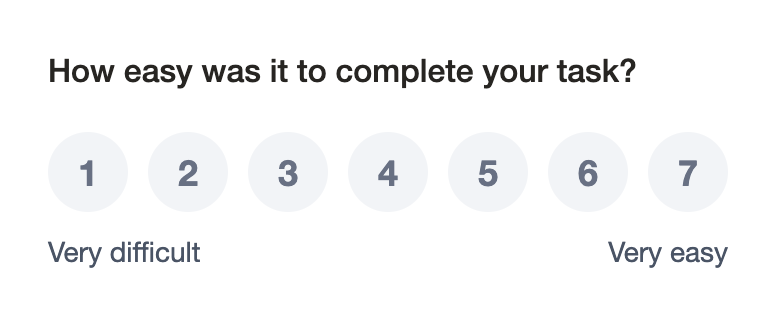
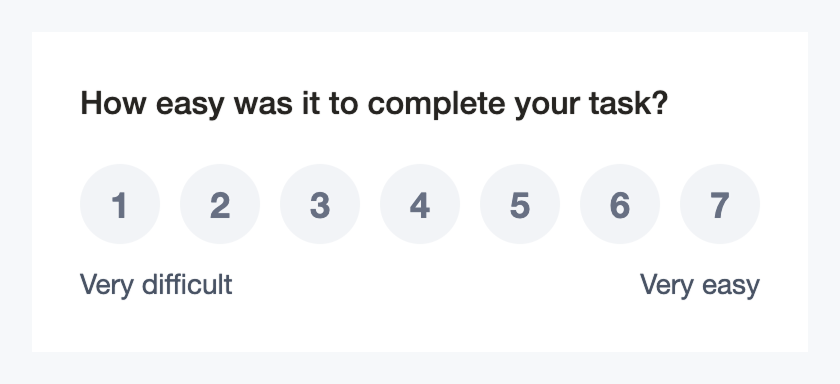
Updated image previews

diff --git a/README.md b/README.md
@@ -84,9 +84,7 @@ Surveys to ask users about their overall satisfaction.
 - "How would you rate your overall experience?"
 - "How satisfied are you with our customer support?"
 
-<div style="display: inline-block; background-color: var(--bgColor-muted, #f6f8fa); padding: 16px 24px;">
-<img alt="csat5" src="docs/assets/csat5.png" width="368" />
-</div>
+<img alt="CSAT5" src="docs/assets/csat5.png" width="400" />
 
 ```tsx
 import { CSAT5Survey } from 'react-feedback-surveys';
@@ -117,9 +115,7 @@ Surveys to ask users about specific features or flows.
 - "Did you find what you were looking for?"
 - "Are you satisfied with the checkout process?"
 
-<div style="display: inline-block; background-color: var(--bgColor-muted, #f6f8fa); padding: 16px 24px;">
-<img alt="csat2" src="docs/assets/csat2.png" width="358" />
-</div>
+<img alt="CSAT2" src="docs/assets/csat2.png" width="390" />
 
 ```tsx
 import { CSAT2Survey } from 'react-feedback-surveys';
@@ -148,9 +144,9 @@ Surveys to ask users if they'd recommend your product.
 - "On a scale of 0-10, would you recommend our service?"
 - "How likely are you to recommend this product to others?"
 
-<div style="display: inline-block; background-color: var(--bgColor-muted, #f6f8fa); padding: 1rem; line-height: 0">
-<img alt="nps10" src="docs/assets/nps10.png" width="568" />
-</div>
+<img alt="NPS10" src="docs/assets/nps10.png" width="600" />
+
+<img alt="NPS10 mobile" src="docs/assets/nps10-mobile.png" width="362" />
 
 ```tsx
 import { NPS10Survey } from 'react-feedback-surveys';
@@ -181,9 +177,7 @@ Surveys to ask users how easy it is to use your product.
 - "How much effort did it take to resolve your issue?"
 - "How easy was it to sign up for an account?"
 
-<div style="display: inline-block; background-color: var(--bgColor-muted, #f6f8fa); padding: 16px 24px;">
-<img alt="ces7" src="docs/assets/ces7.png" width="388" />
-</div>
+<img alt="CES7" src="docs/assets/ces7.png" width="420" />
 
 ```tsx
 import { CES7Survey } from 'react-feedback-surveys';
@@ -211,6 +205,8 @@ import 'react-feedback-surveys/index.css';
 
 The `<Popup>` component wraps survey widgets in a fixed overlay that slides in from the screen edge. It includes positioning, animations, and a close button for easy dismissal.
 
+<img alt="CSAT5 Popup" src="docs/assets/csat5-popup.png" width="400" />
+
 #### Usage
 
 ```tsx
@@ -228,7 +224,7 @@ import 'react-feedback-surveys/index.css';
   onClose={() => console.log('Closed')}
 >
   <CSAT5Survey
-    scaleStyle="emoji"
+    scaleStyle="stars"
     question="How would you rate your satisfaction?"
     onScoreSubmit={({ value }) => {/* ... */}}
   />
